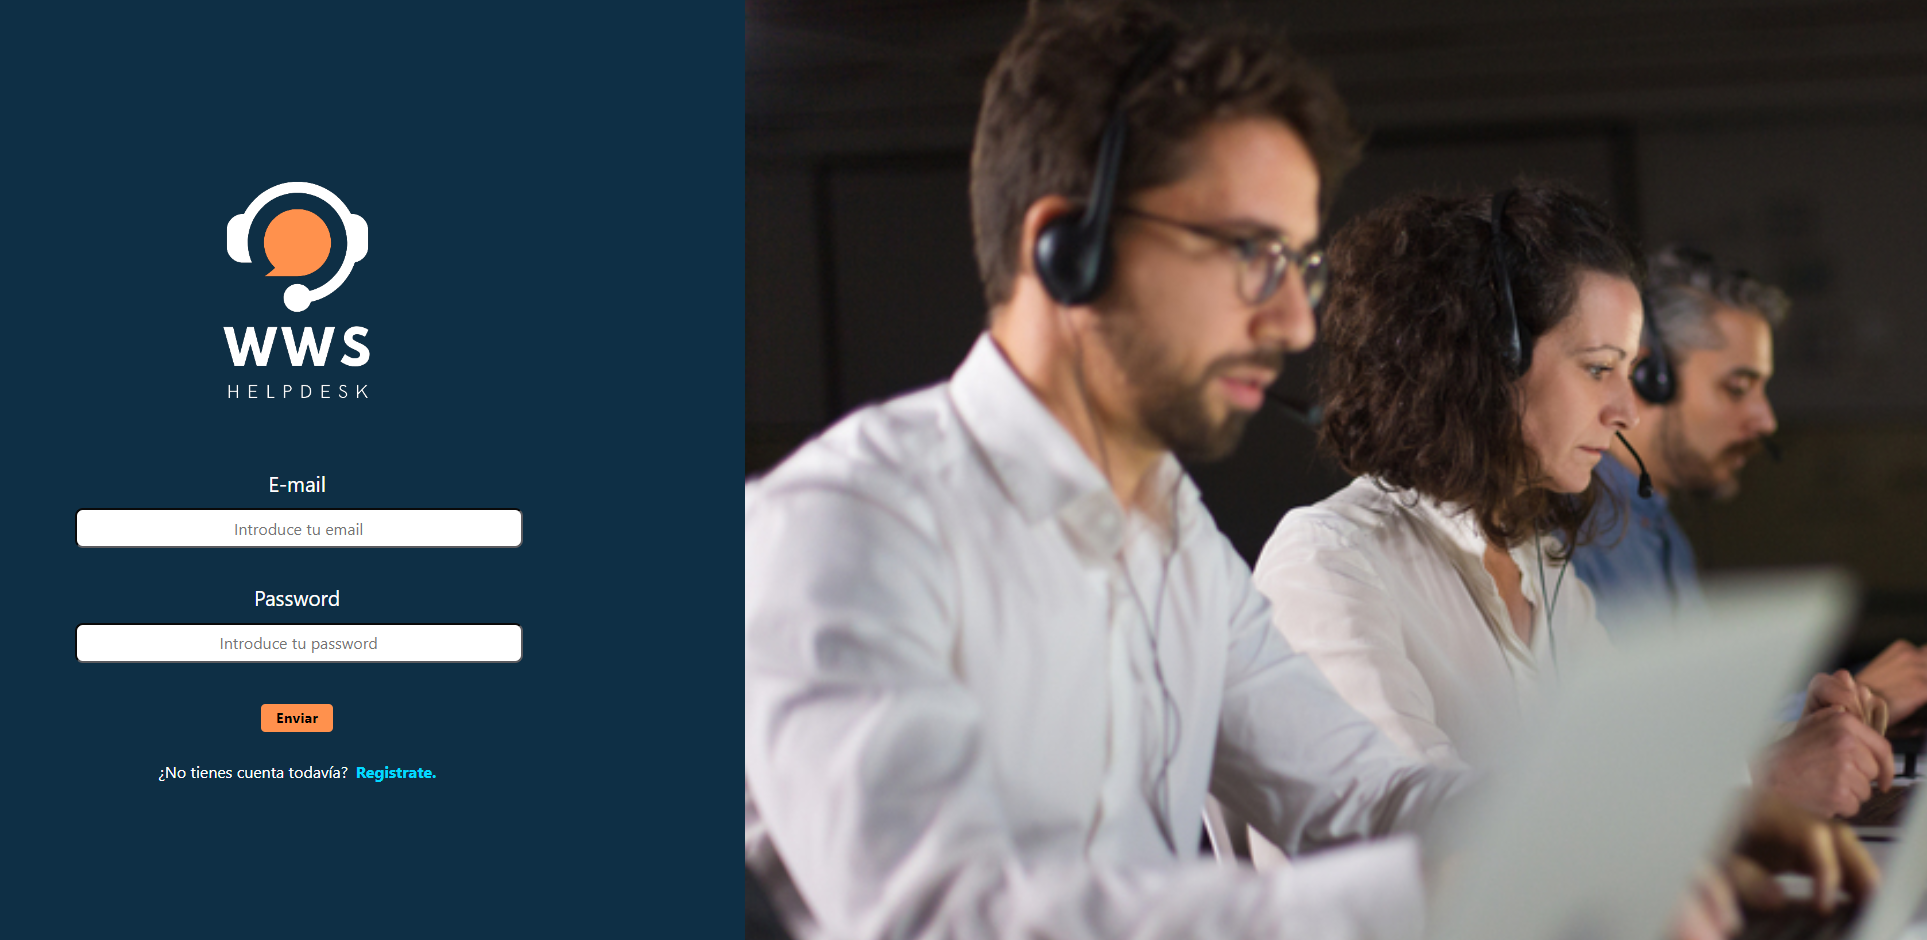
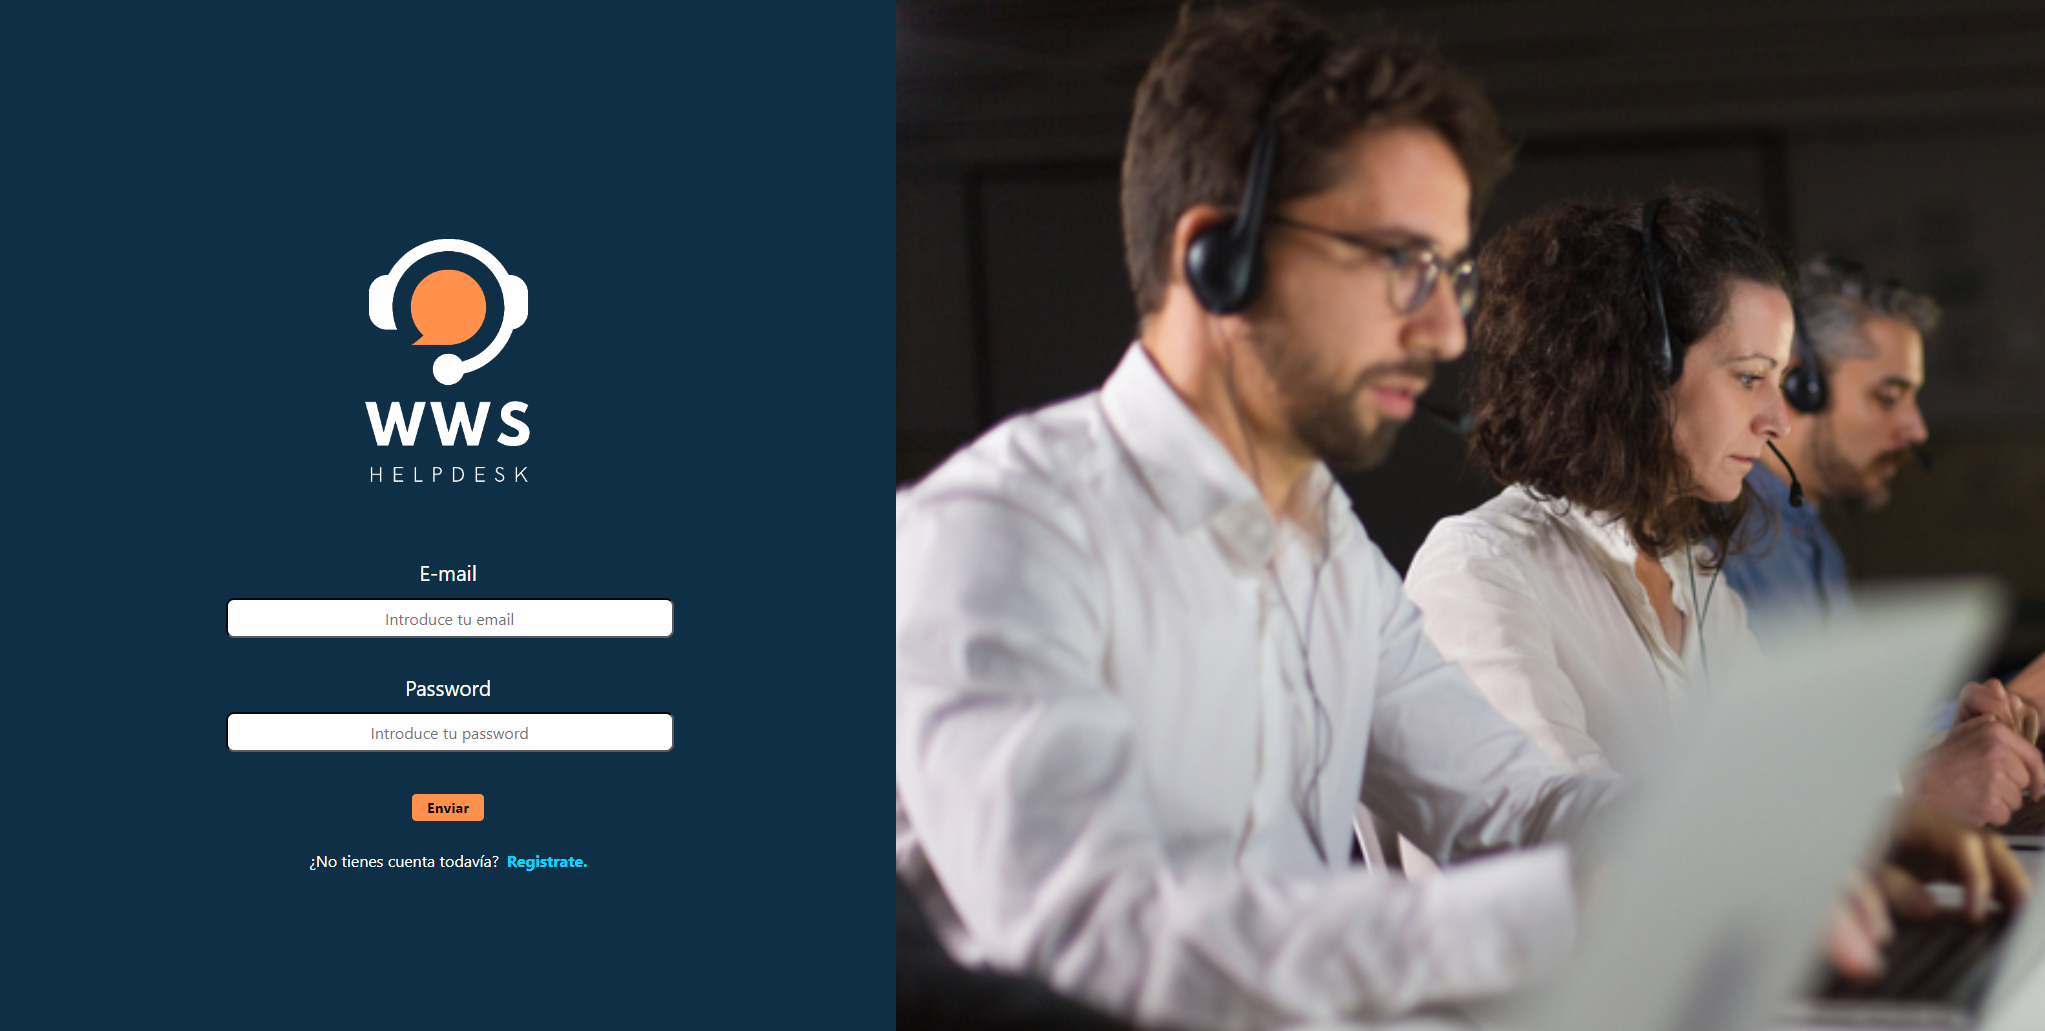
FIX: Corregido formato de imagen del proyecto WWS

diff --git a/src/common/MyProjects/MyProjects.jsx b/src/common/MyProjects/MyProjects.jsx
@@ -18,11 +18,11 @@ export const MyProjects = () => {
         </Col>
         <Col className="col-12 m-0 p-0 d-flex justify-content-start align-items-center flex-column">
           <Row className="d-flex my-2 projectSlide">
-            <Col className="col-12 col-md-6 projectImage m-0 p-1 d-flex justify-content-center align-items-center">
+            <Col className="col-12 col-md-6 projectImage m-0 p-0 d-flex justify-content-center align-items-center">
               <img
                 src={WWSimg}
-                alt="Dental Clinic Frontend"
-                className="imgProject p-1"
+                alt="WWS helpdesk"
+                className="imgProject h-100"
               />
             </Col>
             <Col className="col-12 col-md-6 projectDescription m-0 py-3 d-flex justify-content-between align-items-center flex-column">
@@ -139,7 +139,7 @@ export const MyProjects = () => {
               <img
                 src={Devstaurante}
                 alt="Dental Clinic Frontend"
-                className="imgProject p-1"
+                className="imgProject h-100"
               />
             </Col>
             <Col className="col-12 col-md-6 projectDescription m-0 py-3 d-flex justify-content-between align-items-center flex-column">
@@ -177,9 +177,9 @@ export const MyProjects = () => {
               <div className="my-2">
                 {" "}
                 Tiene musho peligro diodenoo. Pecador ahorarr a wan mamaar
-                llevame al sircoo. Tiene musho  diodenoo. Pecador ahorarr
-                a wan mamaar llevame al sircoo. Tiene musho peligro diodenoo.
-                Pecador ahorarr a wan mamaar llevame al sircoo
+                llevame al sircoo. Tiene musho diodenoo. Pecador ahorarr a wan
+                mamaar llevame al sircoo. Tiene musho peligro diodenoo. Pecador
+                ahorarr a wan mamaar llevame al sircoo
               </div>
               <Button
                 className="buttonProject"
